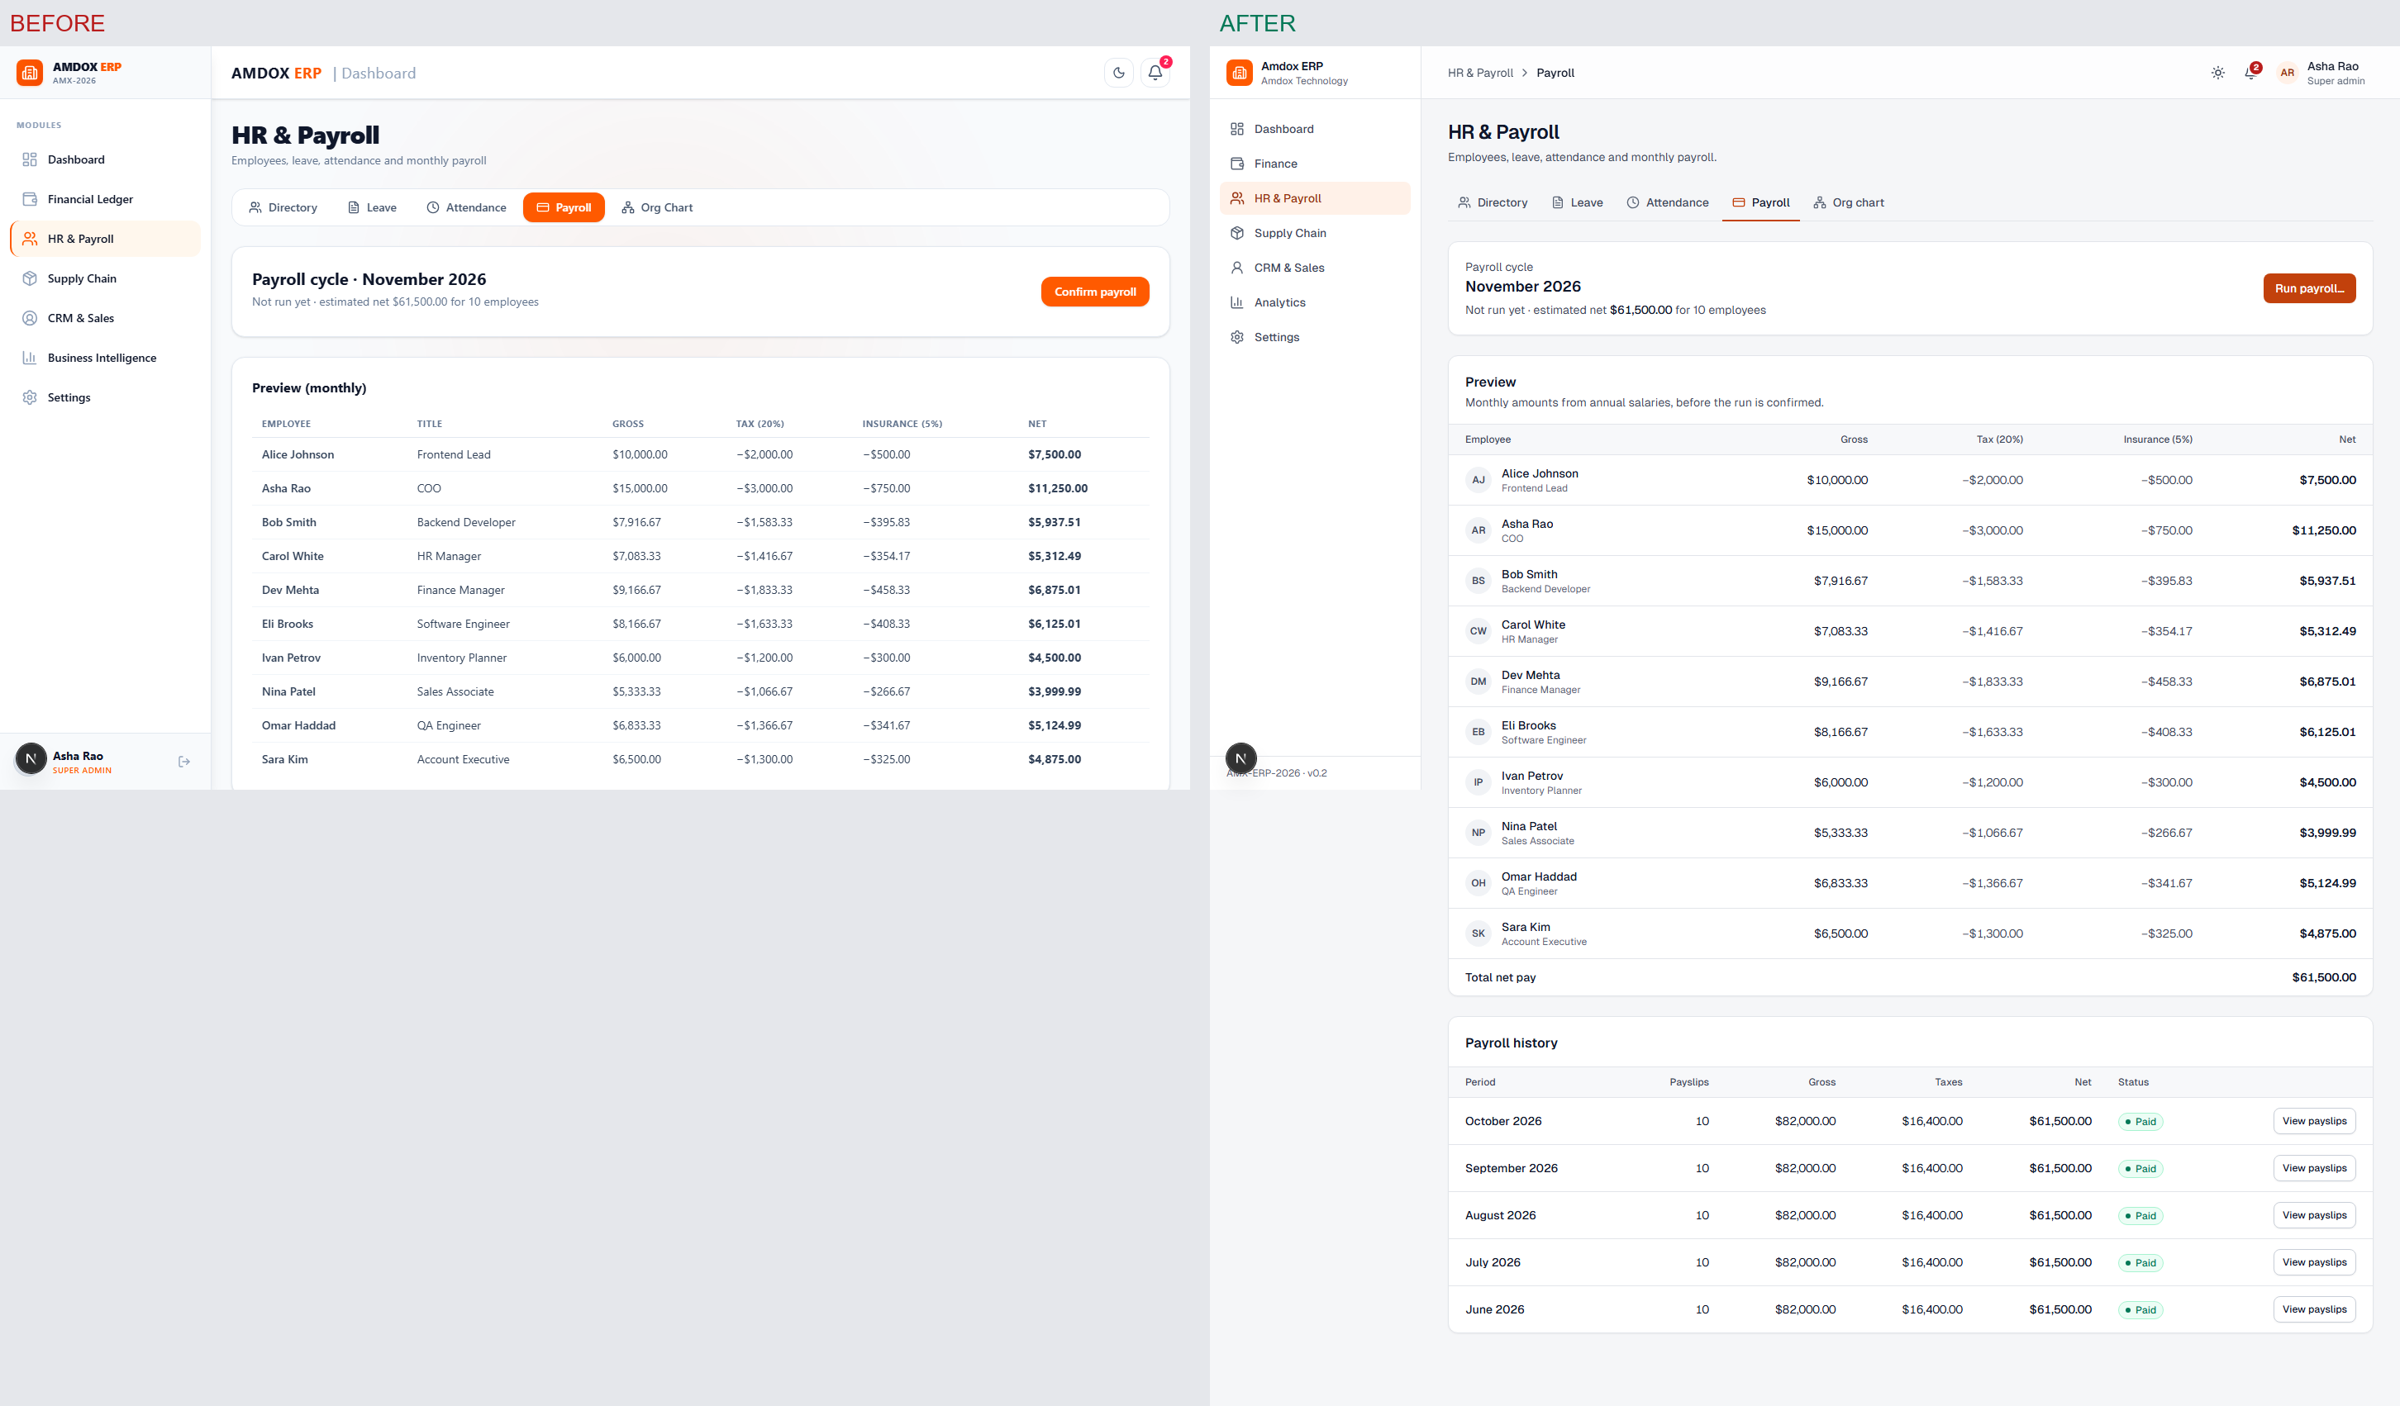
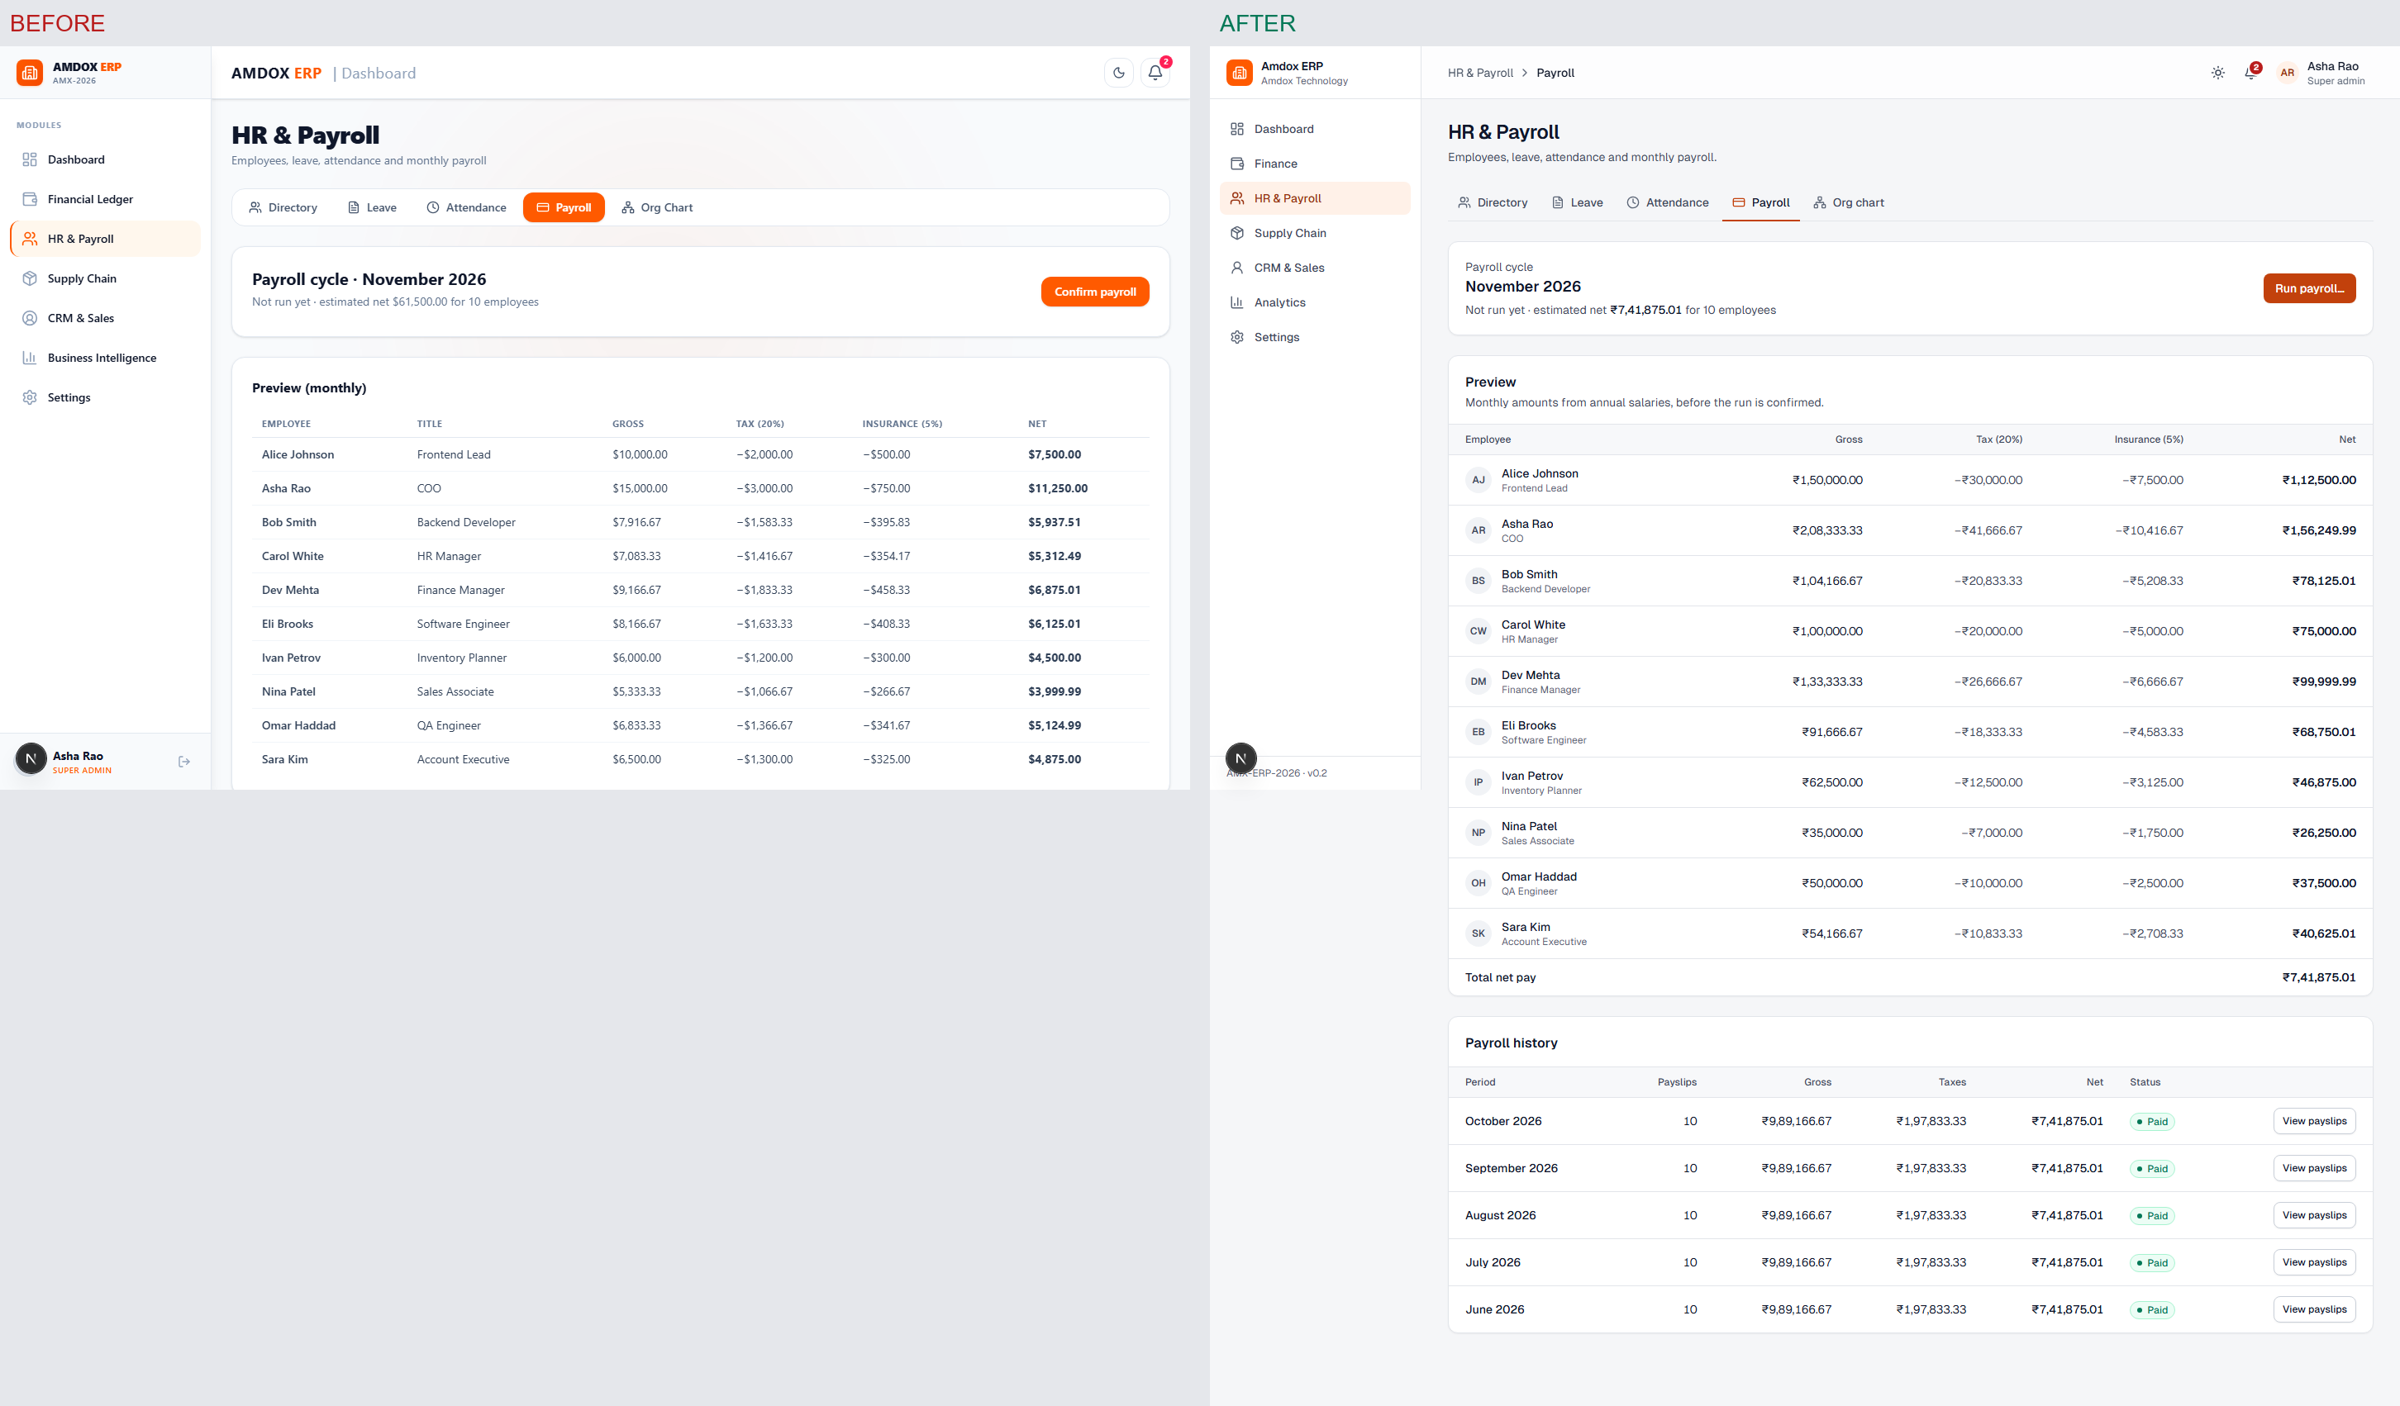
ui audit: re-run after read access + INR (axe 0, overflow 0, smoke 10/10)

diff --git a/apps/web/e2e/smoke.spec.ts b/apps/web/e2e/smoke.spec.ts
@@ -62,8 +62,7 @@ for (const role of ROLES) {
 
     // Sidebar lists exactly the modules this role may read
     const nav = page.getByRole('navigation', { name: 'Main' });
-    const links = (await nav.getByRole('link').allInnerTexts()).map((t) => t.trim());
-    expect(links).toEqual(ACCESS[role].map((p) => LABEL[p]));
+    await expect(nav.getByRole('link')).toHaveText(ACCESS[role].map((p) => LABEL[p]!), { timeout: 20_000 });
 
     for (const path of PAGES) {
       await page.goto(path);

diff --git a/ui-audit/REPORT.md b/ui-audit/REPORT.md
@@ -231,3 +231,26 @@ The same capture was run against the rebuilt UI (`after/`, about 400 screenshots
 Found during the rebuild and fixed:
 - Two seeded leave requests had their start and end dates swapped, so the UI showed a negative number of days. The API already rejects this; only the seed was wrong.
 - Visually hidden table header labels escaped the scroll container and caused a 26 px page overflow.
+
+---
+
+# Follow-up: role-based read access, INR, tablet leave table
+
+Decisions applied (2026-11-12):
+
+- **Read access is enforced by the API** (`READ` in `apps/api/src/middleware/roles.ts`), and the UI follows it:
+  - EMPLOYEE sees only their own profile, attendance, leave and payslips.
+  - READ_ONLY reads everything and writes nothing.
+  - Other roles read the modules they write to, plus what they clearly need.
+  - The sidebar lists only modules the role can read; a direct link to any other module shows a "No access" page. Tabs are hidden per role.
+  - The dashboard is assembled from per-module sections, plus a personal "your day" panel.
+- **Currency:** INR with en-IN formatting (₹12,34,567.00; compact ₹12.3L / ₹1.2Cr). The seed and demo data are in rupees (salaries ₹4.2–25 lakh a year).
+- **Leave table at tablet width:** the day count sits under the dates and the reason column shows from `xl`, so Approve and Reject are visible without scrolling.
+
+Re-run results:
+- axe: 0 violations on 24 views.
+- Horizontal overflow: 0.
+- Console errors: 0 outside the deliberately provoked states.
+- Playwright: 10/10. Each role's sidebar matches its access, every visible tab loads without 403 or error states, and forbidden modules show "No access".
+
+Screenshots: `after/employee--dashboard--light--desktop.png`, `after/employee--hr--payroll--light--mobile.png`, `after/viewer--settings--users-roles--light--desktop.png`, `after/admin--hr--leave--light--tablet.png`.
